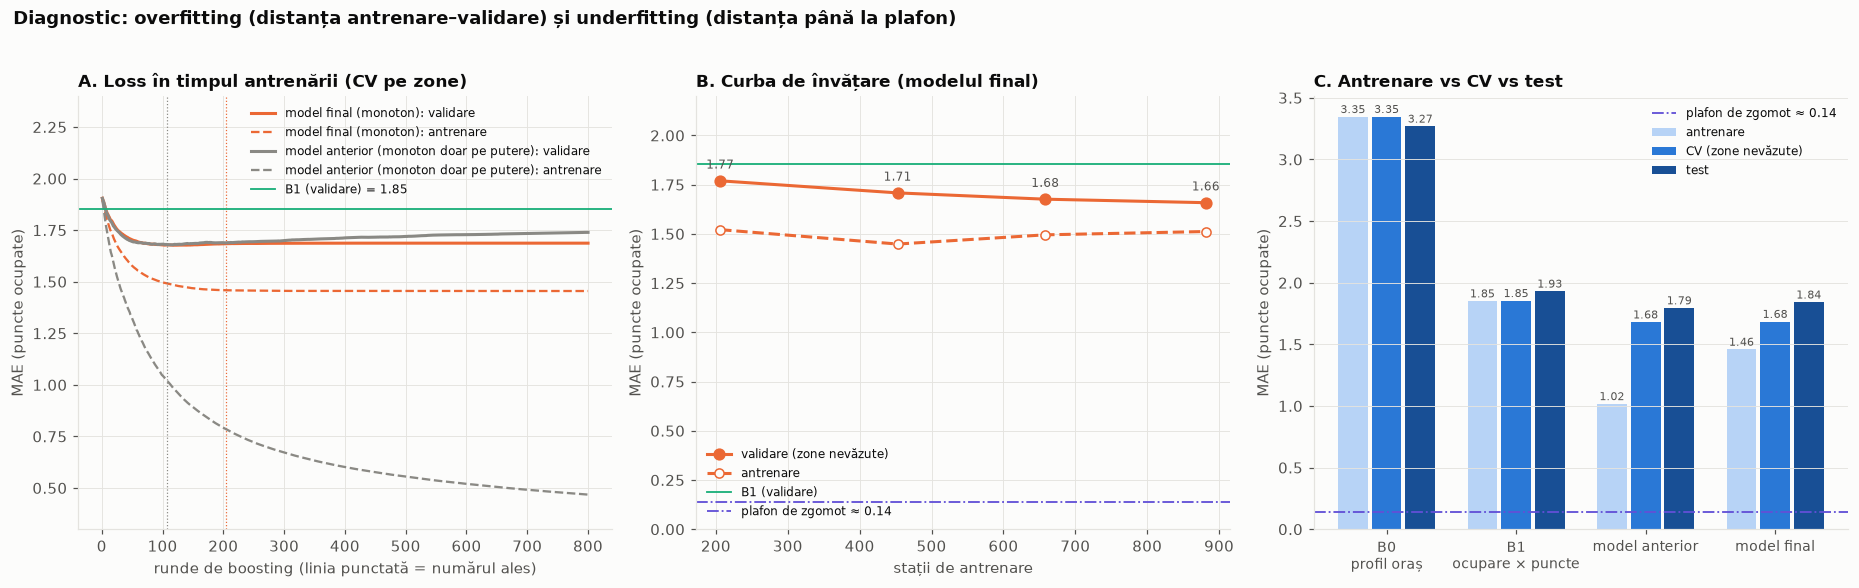
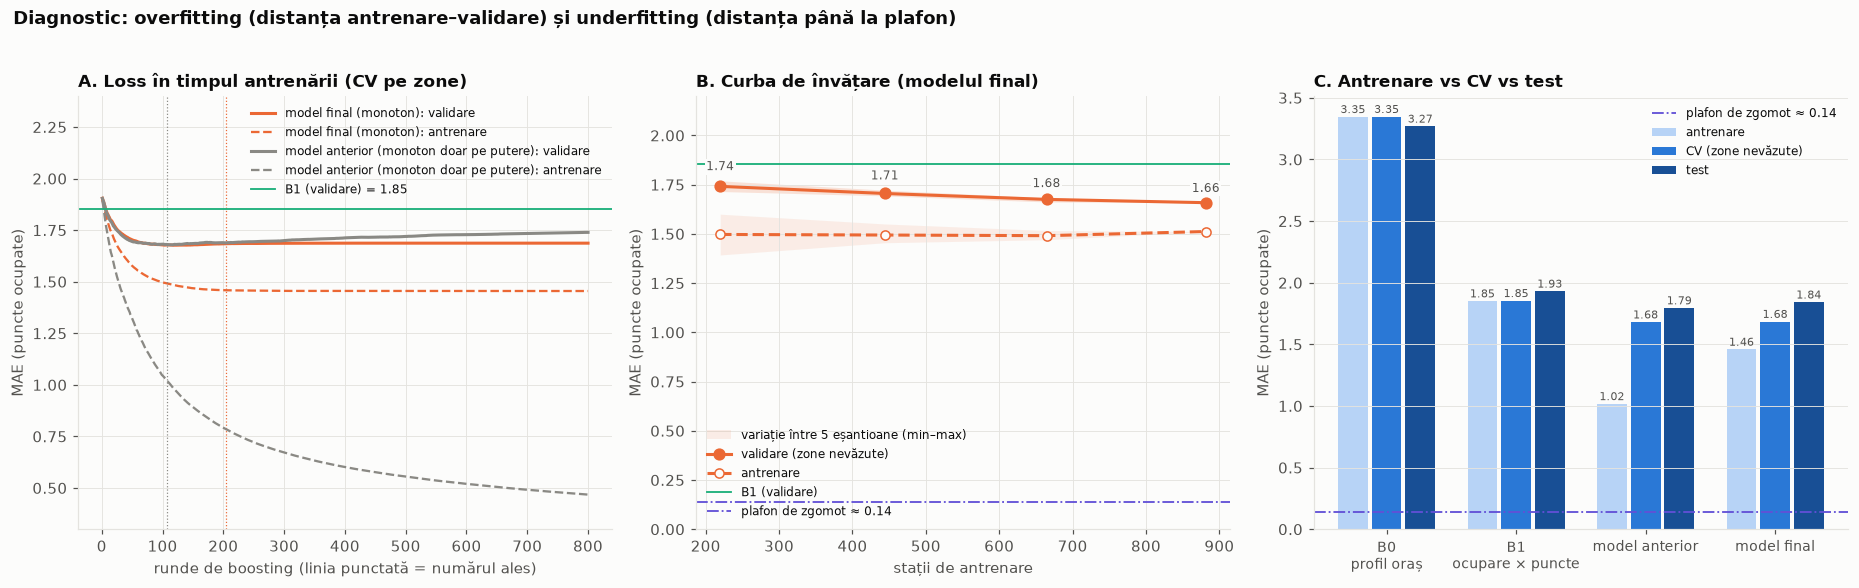
Curba de învățare: medie pe 5 eșantioane, bandă min–max, etichete lizibile

diff --git a/ml/src/diagnostics.py b/ml/src/diagnostics.py
@@ -68,23 +68,35 @@ def loss_curves(train, feats, mode, params, folds):
     return np.mean(tr_curves, axis=0), np.mean(va_curves, axis=0)
 
 
-def learning_curve(train, feats, mode, params, folds, fracs=(0.25, 0.5, 0.75, 1.0)):
+def learning_curve(train, feats, mode, params, folds, fracs=(0.25, 0.5, 0.75, 1.0), repeats=5):
+    """Pentru fiecare fracțiune: `repeats` eșantioane aleatoare de zone de antrenare (în fiecare fold).
+
+    Raportăm media pe repetări și intervalul min–max, ca să se vadă cât din formă e zgomot de eșantionare.
+    La 100% toate repetările sunt identice (nu mai e nimic de eșantionat).
+    """
     rng = np.random.default_rng(C.SEED)
     out = []
     for frac in fracs:
-        trm, vam, n_st = [], [], []
-        for a, b in folds:
-            tr_all, va = train.iloc[a], train.iloc[b]
-            zones = tr_all["zone_id"].unique()
-            keep = rng.choice(zones, size=max(1, int(round(frac * len(zones)))), replace=False)
-            tr = tr_all[tr_all["zone_id"].isin(keep)]
-            bst = fit_booster(tr, feats, params, mode, C.MAX_BOOST_ROUNDS, valid=va)
-            it = bst.best_iteration
-            trm.append(np.abs(predict_y(bst, tr, feats, mode, it) - tr["y"]).mean())
-            vam.append(np.abs(predict_y(bst, va, feats, mode, it) - va["y"]).mean())
-            n_st.append(tr["station_id"].nunique())
-        out.append({"frac": frac, "n_stations": float(np.mean(n_st)), "train_mae": float(np.mean(trm)),
-                    "cv_mae": float(np.mean(vam))})
+        rep_tr, rep_va, n_st = [], [], []
+        for _ in range(repeats if frac < 1 else 1):
+            trm, vam = [], []
+            for a, b in folds:
+                tr_all, va = train.iloc[a], train.iloc[b]
+                zones = tr_all["zone_id"].unique()
+                keep = rng.choice(zones, size=max(1, int(round(frac * len(zones)))), replace=False)
+                tr = tr_all[tr_all["zone_id"].isin(keep)]
+                bst = fit_booster(tr, feats, params, mode, C.MAX_BOOST_ROUNDS, valid=va)
+                it = bst.best_iteration
+                trm.append(np.abs(predict_y(bst, tr, feats, mode, it) - tr["y"]).mean())
+                vam.append(np.abs(predict_y(bst, va, feats, mode, it) - va["y"]).mean())
+                n_st.append(tr["station_id"].nunique())
+            rep_tr.append(np.mean(trm))
+            rep_va.append(np.mean(vam))
+        out.append({"frac": frac, "n_stations": float(np.mean(n_st)),
+                    "train_mae": float(np.mean(rep_tr)), "train_min": float(np.min(rep_tr)),
+                    "train_max": float(np.max(rep_tr)),
+                    "cv_mae": float(np.mean(rep_va)), "cv_min": float(np.min(rep_va)), "cv_max": float(np.max(rep_va)),
+                    "repeats": len(rep_va)})
     return out
 
 
@@ -141,7 +153,8 @@ def main():
     lc = learning_curve(train, feats, mode, final_params, folds)
     out["learning_curve"] = lc
     for r in lc:
-        print(f"[B] {r['n_stations']:.0f} stații: antrenare {r['train_mae']:.3f}, validare {r['cv_mae']:.3f}")
+        print(f"[B] {r['n_stations']:.0f} stații: antrenare {r['train_mae']:.3f} ({r['train_min']:.3f}–{r['train_max']:.3f}), "
+              f"validare {r['cv_mae']:.3f} ({r['cv_min']:.3f}–{r['cv_max']:.3f})")
 
     # C. antrenare / CV / test + plafon de zgomot
     floor = noise_floor(train["station_id"].unique().tolist())
@@ -180,14 +193,18 @@ def main():
 
     ax = axes[1]
     ns = [r["n_stations"] for r in lc]
+    ax.fill_between(ns, [r["cv_min"] for r in lc], [r["cv_max"] for r in lc], color=ORANGE, alpha=0.18, linewidth=0)
+    ax.fill_between(ns, [r["train_min"] for r in lc], [r["train_max"] for r in lc], color=ORANGE, alpha=0.10,
+                    linewidth=0, label="variație între 5 eșantioane (min–max)")
     ax.plot(ns, [r["cv_mae"] for r in lc], color=ORANGE, marker="o", markersize=7, label="validare (zone nevăzute)")
     ax.plot(ns, [r["train_mae"] for r in lc], color=ORANGE, linestyle="--", marker="o", markersize=6,
             markerfacecolor=SURF, label="antrenare")
     ax.axhline(b1_cv, color=AQUA, linewidth=1.2, label="B1 (validare)")
     ax.axhline(floor, color=VIOLET, linewidth=1.2, linestyle="-.", label=f"plafon de zgomot ≈ {floor:.2f}")
     for n, r in zip(ns, lc):
-        ax.annotate(f"{r['cv_mae']:.2f}", (n, r["cv_mae"]), textcoords="offset points", xytext=(0, 8),
-                    ha="center", fontsize=8, color=INK2)
+        ax.annotate(f"{r['cv_mae']:.2f}", (n, r["cv_max"]), textcoords="offset points", xytext=(0, 7),
+                    ha="center", fontsize=8, color=INK2,
+                    bbox=dict(facecolor=SURF, edgecolor="none", pad=1.0))
     ax.set_xlabel("stații de antrenare")
     ax.set_ylabel("MAE (puncte ocupate)")
     ax.set_title("B. Curba de învățare (modelul final)", loc="left")

diff --git a/ml/README.md b/ml/README.md
@@ -29,7 +29,7 @@ Set de test: 14.576 rânduri, 304 stații, 61 de zone (metricile pe stație folo
 ![Diagnostic de potrivire](reports/figures/fit_diagnostics.png)
 
 - **A. Fără overfitting.** Pentru modelul final, eroarea pe validare rămâne plată oricât de mult antrenăm (1,68 la runda 205, 1,69 la runda 800), iar distanța față de antrenare e mică (1,46). Modelul anterior memora: eroarea lui pe antrenare cobora până la 0,47, iar pe validare creștea după ~100 de runde.
-- **B. Mai multe stații ar ajuta puțin.** Validarea scade lent (1,77 → 1,66 de la ~200 la ~880 de stații), fără să ajungă la un palier.
+- **B. Mai multe stații ar ajuta puțin.** Validarea scade lent (1,74 → 1,66 de la ~220 la ~880 de stații; media pe 5 eșantioane aleatoare, banda arată variația), fără să ajungă la un palier. Eroarea pe antrenare rămâne ~1,50, iar distanța dintre cele două linii scade.
 - **C. Underfitting din lipsă de informație.** Un model care ar cunoaște perfect fiecare stație ar avea o eroare de ~0,14, adică doar zgomotul de la o săptămână la alta. Modelul final are 1,68. Aproape toată eroarea rămasă e sistematică (stații moarte, depouri, stații foarte mari), dar nu poate fi explicată din feature-urile disponibile pentru o locație nouă.
 
 ### Ce contează (SHAP, grupat)
